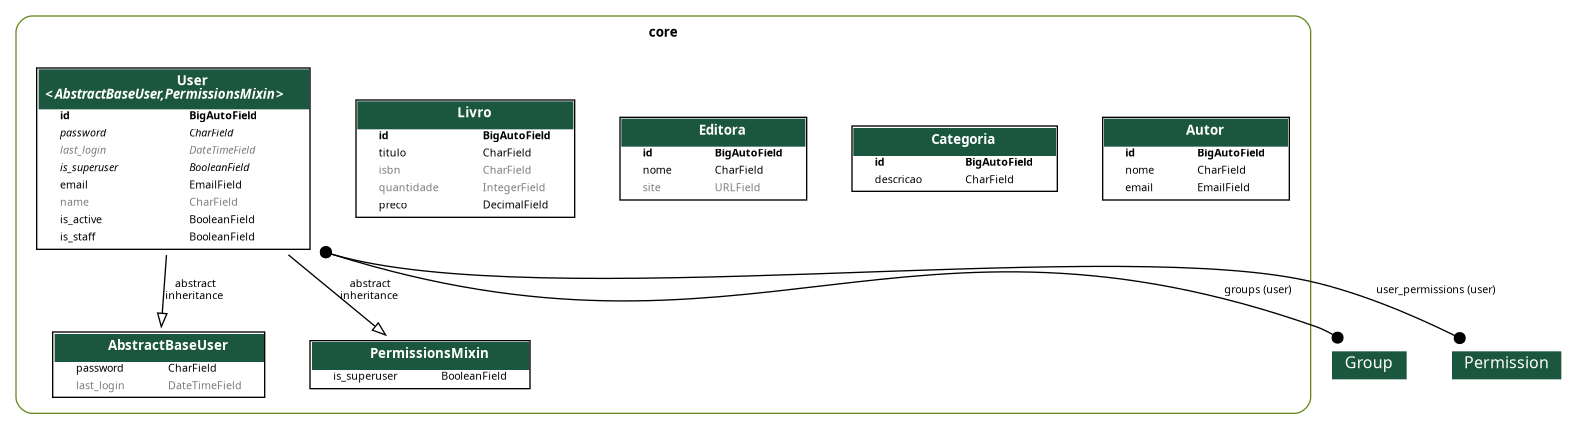
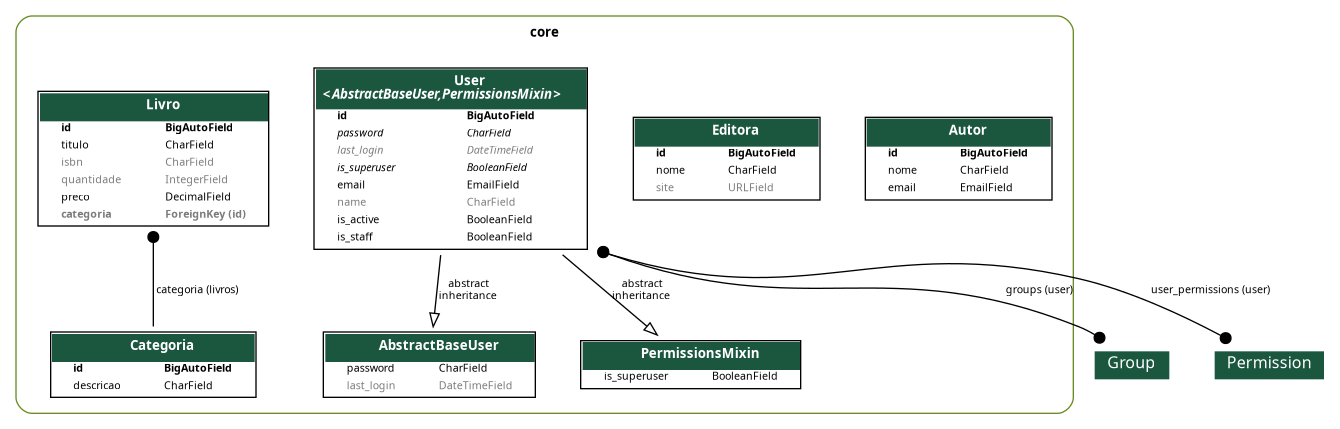
feat: criacao do relacionamento entre Livro e Categoria

diff --git a/core/models/livro.py b/core/models/livro.py
@@ -1,11 +1,14 @@
 from django.db import models
 
+from .categoria import Categoria
+
 
 class Livro(models.Model):
     titulo = models.CharField(max_length=255)
     isbn = models.CharField(max_length=32, null=True, blank=True)
-    quantidade = models.IntegerField(default=0,  null=True, blank=True)
+    quantidade = models.IntegerField(default=0, null=True, blank=True)
     preco = models.DecimalField(max_digits=7, decimal_places=2, default=0)
+    categoria = models.ForeignKey(Categoria, on_delete=models.PROTECT, related_name='livros', null=True, blank=True)
 
     def __str__(self):
         return f'({self.id}) {self.titulo} ({self.quantidade})'

diff --git a/core/migrations/0007_livro_categoria.py b/core/migrations/0007_livro_categoria.py
@@ -1,0 +1,19 @@
+# Generated by Django 5.2.12 on 2026-03-20 13:17
+
+import django.db.models.deletion
+from django.db import migrations, models
+
+
+class Migration(migrations.Migration):
+
+    dependencies = [
+        ('core', '0006_autor_categoria_editora_livro'),
+    ]
+
+    operations = [
+        migrations.AddField(
+            model_name='livro',
+            name='categoria',
+            field=models.ForeignKey(blank=True, null=True, on_delete=django.db.models.deletion.PROTECT, related_name='livros', to='core.categoria'),
+        ),
+    ]

diff --git a/core/models/editora.py b/core/models/editora.py
@@ -1,8 +1,9 @@
 from django.db import models
 
+
 class Editora(models.Model):
     nome = models.CharField(max_length=100)
-    site = models.URLField(max_length=200, blank=True, null=True) 
+    site = models.URLField(max_length=200, blank=True, null=True)
 
-    def __str__ (self):
+    def __str__(self):
         return self.nome

diff --git a/core/serializers/categoria.py b/core/serializers/categoria.py
@@ -2,8 +2,8 @@ from rest_framework.serializers import ModelSerializer
 
 from core.models import Categoria
 
+
 class CategoriaSerializer(ModelSerializer):
     class Meta:
         model = Categoria
         fields = "__all__"
-

diff --git a/core/models/categoria.py b/core/models/categoria.py
@@ -3,6 +3,6 @@ from django.db import models
 
 class Categoria(models.Model):
     descricao = models.CharField(max_length=100)
-    
+
     def __str__(self):
         return f"({self.id}) {self.descricao}"

diff --git a/core/models/autor.py b/core/models/autor.py
@@ -1,5 +1,6 @@
 from django.db import models
 
+
 class Autor(models.Model):
     nome = models.CharField(max_length=100)
     email = models.EmailField(max_length=100, unique=True, null=False)

diff --git a/core/serializers/editora.py b/core/serializers/editora.py
@@ -2,6 +2,7 @@ from rest_framework.serializers import ModelSerializer
 
 from core.models import Editora
 
+
 class EditoraSerializer(ModelSerializer):
     class Meta:
         model = Editora

diff --git a/core/serializers/autor.py b/core/serializers/autor.py
@@ -2,6 +2,7 @@ from rest_framework.serializers import ModelSerializer
 
 from core.models import Autor
 
+
 class AutorSerializer(ModelSerializer):
     class Meta:
         model = Autor

diff --git a/core/serializers/livro.py b/core/serializers/livro.py
@@ -2,6 +2,7 @@ from rest_framework.serializers import ModelSerializer
 
 from core.models import Livro
 
+
 class LivroSerializer(ModelSerializer):
     class Meta:
         model = Livro

diff --git a/core/views/editora.py b/core/views/editora.py
@@ -7,5 +7,3 @@ from core.serializers import EditoraSerializer
 class EditoraViewSet(ModelViewSet):
     queryset = Editora.objects.all()
     serializer_class = EditoraSerializer
-
-    
